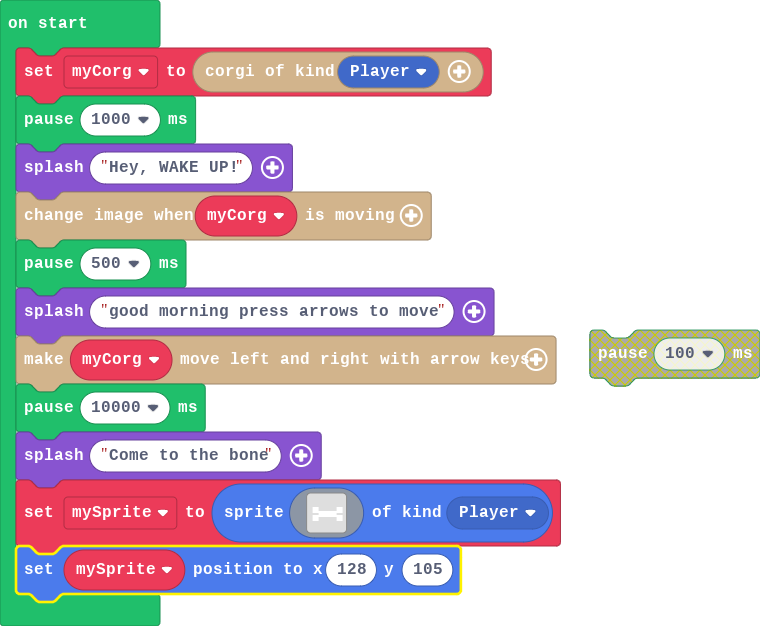
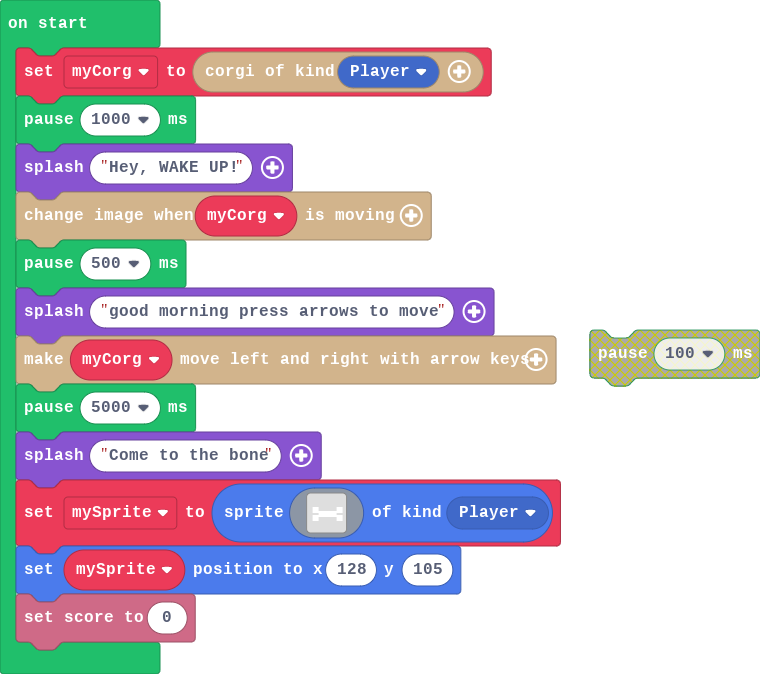
Update main.blocks, main.ts

diff --git a/main.ts b/main.ts
@@ -5,7 +5,7 @@ myCorg.updateSprite()
 pause(500)
 game.splash("good morning press arrows to move ")
 myCorg.horizontalMovement()
-pause(10000)
+pause(5000)
 game.splash("Come to the bone")
 let mySprite = sprites.create(img`
     . . . . . . . . . . . . . . . . 
@@ -26,3 +26,4 @@ let mySprite = sprites.create(img`
     . . . . . . . . . . . . . . . . 
     `, SpriteKind.Player)
 mySprite.setPosition(128, 105)
+info.setScore(0)
